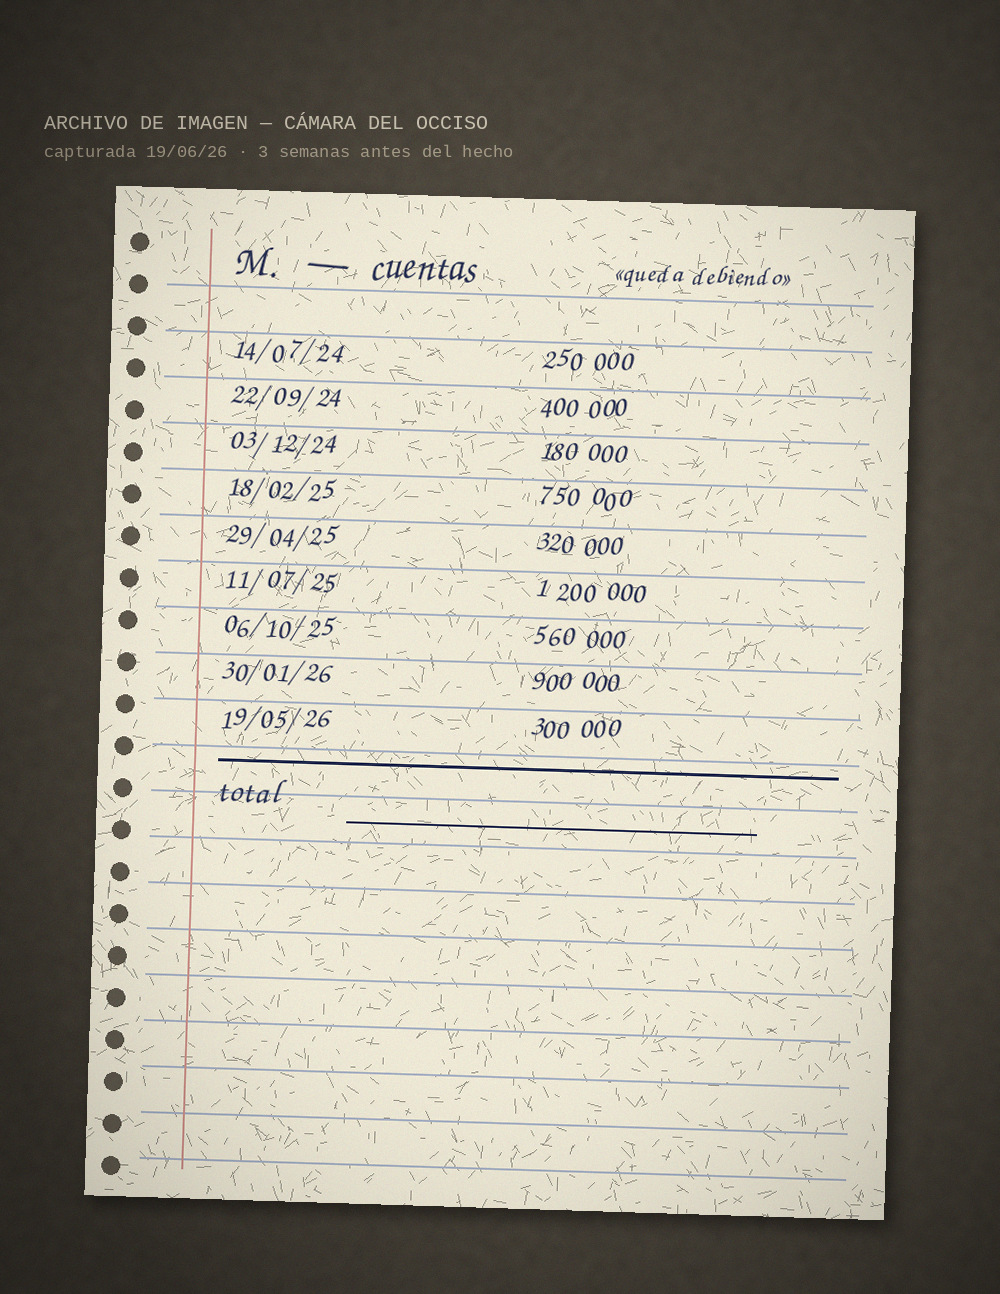
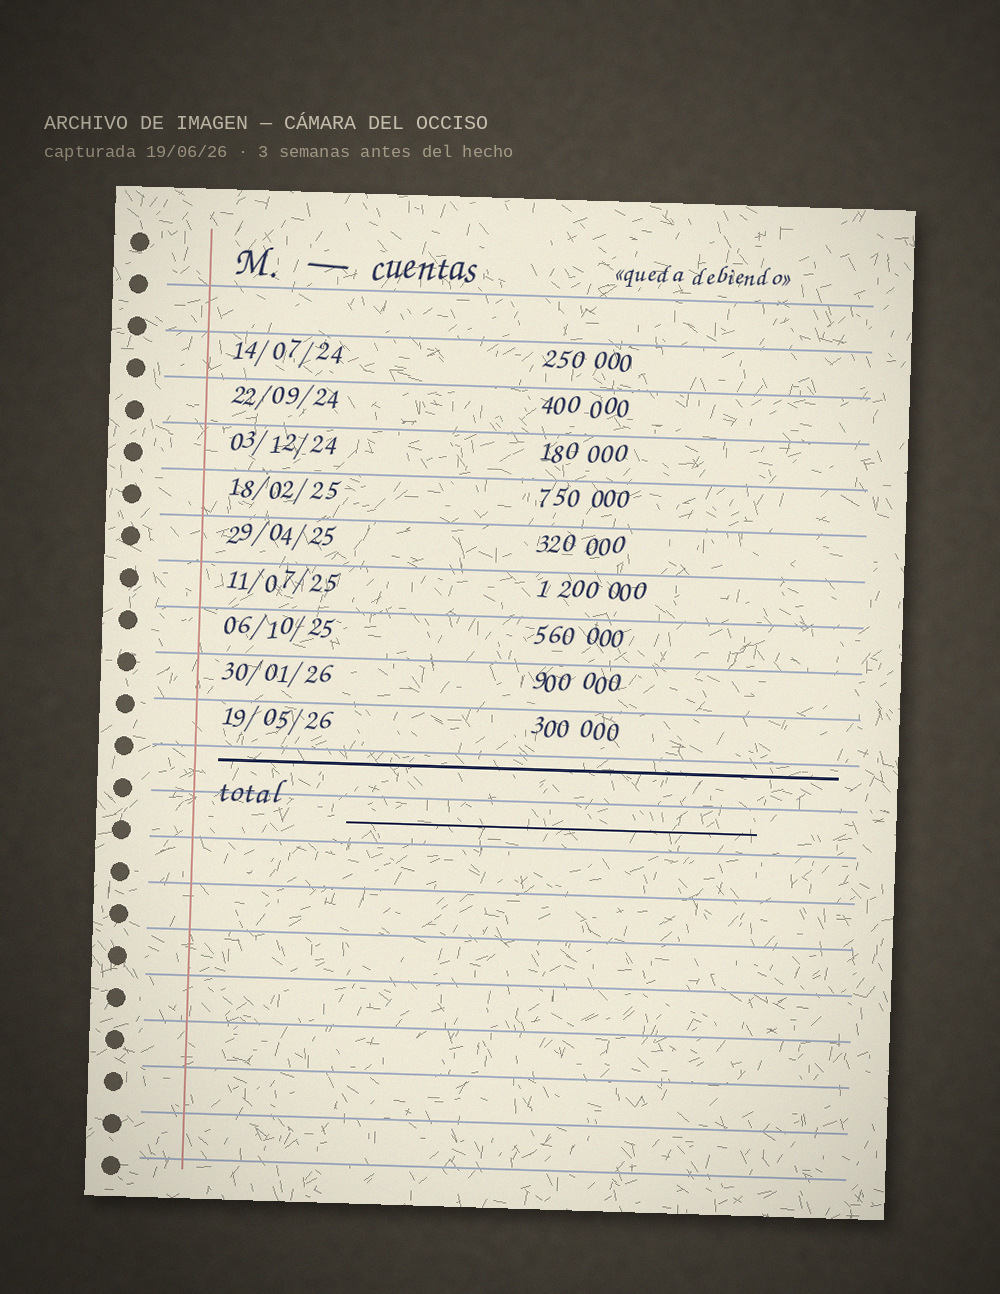
Expediente 002: diez retratos incorporados y dos correcciones del pipeline
Confirmacion por ojos en la puntuacion de rostros: el filtro de tono de
piel por si solo premia cualquier zona amplia de piel, y en un retrato
recortaba el torso en vez de la cara.

Aire garantizado sobre la caja detectada antes de aplicar el
desplazamiento hacia los hombros: la caja de Haar empieza en la frente y
sin ese margen el recorte cortaba la coronilla.

Ademas, la ficha buscaba el retrato por el alias con tilde y en disco va
sin ella, asi que FIO salia siempre como fotografia pendiente.

Claude-Session: https://claude.ai/code/session_012N2L3txFtYauyY5dCD6BpE

Changed region(s): [[0.217, 0.2473, 0.341, 0.5873], [0.527, 0.2473, 0.651, 0.5873]]

diff --git a/expediente/process_photos.py b/expediente/process_photos.py
@@ -136,6 +136,28 @@ def detectar(bgr):
             continue
         unicos.append((x, y, w, h))
 
+    ojos = cv2.CascadeClassifier(cv2.data.haarcascades + "haarcascade_eye.xml")
+
+    def cuenta_ojos(caja):
+        """
+        Ojos detectados en la mitad superior del candidato.
+
+        El filtro de piel por sí solo no basta: premia cualquier zona amplia de
+        piel, así que un escote o un brazo desnudo puntúan como cara y el
+        recorte sale en el torso. Los ojos son lo que distingue una cara de una
+        mancha de piel.
+        """
+        if ojos.empty():
+            return 0
+        x, y, w, h = caja
+        media = bgr[max(0, y):y + int(h * 0.62), max(0, x):x + w]
+        if media.size == 0:
+            return 0
+        gris_media = cv2.cvtColor(media, cv2.COLOR_BGR2GRAY)
+        return len(ojos.detectMultiScale(gris_media, scaleFactor=1.08,
+                                         minNeighbors=6,
+                                         minSize=(max(8, w // 12),) * 2))
+
     def puntuar(caja):
         x, y, w, h = caja
         recorte = bgr[max(0, y):y + h, max(0, x):x + w]
@@ -145,7 +167,8 @@ def detectar(bgr):
         altura = 1 - (y + h / 2) / alto
         score = 1.5 * tam_rel + 1.3 * centrado + 0.5 * altura + 2.2 * piel
         if piel < 0.12:
-            score -= 2.5
+            score -= 2.5       # descarta ventanas y estructuras del fondo
+        score += min(cuenta_ojos(caja), 2) * 1.5
         return score
 
     return max(unicos, key=puntuar)
@@ -170,6 +193,16 @@ def recortar(pil, caja):
     lado = min(lado, ancho, alto)
     izq = int(round(min(max(cx - lado / 2, 0), ancho - lado)))
     arr = int(round(min(max(cy - lado / 2, 0), alto - lado)))
+
+    if caja is not None:
+        # La caja de Haar suele empezar en la frente, así que el pelo queda por
+        # encima. Sin reservar ese aire, el desplazamiento hacia los hombros
+        # termina cortando la coronilla.
+        aire = 0.95 * caja[3]
+        tope_maximo = int(round(caja[1] - aire))
+        arr = min(arr, max(tope_maximo, 0))
+        arr = min(arr, int(alto - lado))
+
     lado = int(round(lado))
     return pil.crop((izq, arr, izq + lado, arr + lado)).resize(
         (LADO_SALIDA, LADO_SALIDA), Image.LANCZOS)

diff --git a/expediente/build_expediente.py b/expediente/build_expediente.py
@@ -48,7 +48,8 @@ def retrato(c, alias, x, y, lado):
     fotografía pendiente en vez de fallar: así el expediente se puede componer
     y revisar antes de que lleguen los diez archivos.
     """
-    ruta = os.path.join(DIR_RETRATOS, f"{alias}.jpg")
+    # En disco los retratos van sin tilde; FÍO es el único alias que la lleva.
+    ruta = os.path.join(DIR_RETRATOS, f"{alias.replace('Í', 'I')}.jpg")
 
     c.setStrokeColor(FRAME)
     c.setLineWidth(2.2)
@@ -722,7 +723,8 @@ def _rejilla_caras(c, y_tope, alto_disponible):
 
         x_foto = cx - lado_foto / 2
         y_foto = tope - lado_foto - 4
-        ruta = os.path.join(DIR_RETRATOS, f"{sujeto['alias'].replace('Í', 'I')}.jpg")
+        ruta = os.path.join(DIR_RETRATOS,
+                            f"{sujeto['alias'].replace('Í', 'I')}.jpg")
         if os.path.exists(ruta):
             c.drawImage(ImageReader(ruta), x_foto, y_foto, lado_foto, lado_foto)
         else:
